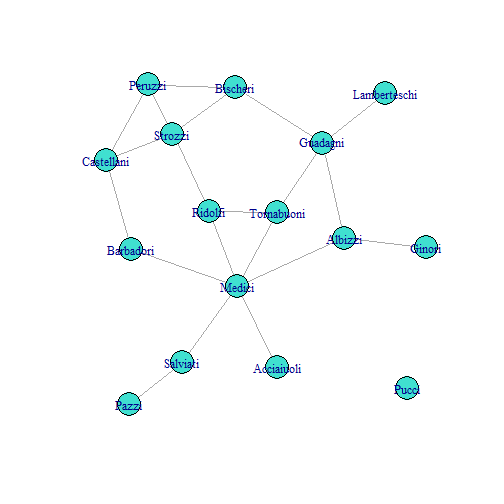
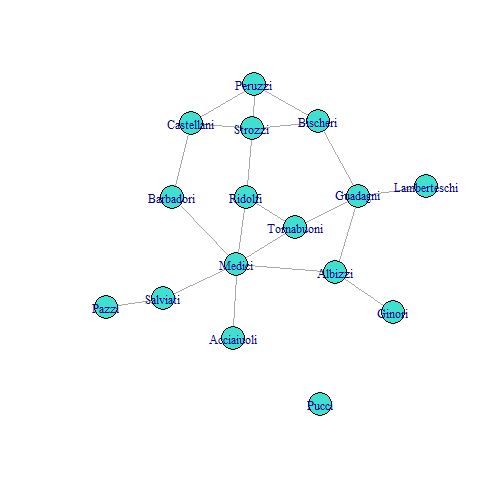
centrality

diff --git a/public/materials/Slides/03_centrality.html b/public/materials/Slides/03_centrality.html
@@ -249,12 +249,13 @@ flo[1:5,1:5]
 # convert to igraph object
 library(igraph)
 g = graph_from_adjacency_matrix(flo, mode='undirected', diag=FALSE)
+g&lt;-  delete_vertices(g, V(g)[degree(g) == 0])
 plot(g)
 ```
 
 
 ---
-## Degree centrality
+## Centrality
 
 Lets calculate each centrality measure in R (using the `igraph` package)
 
